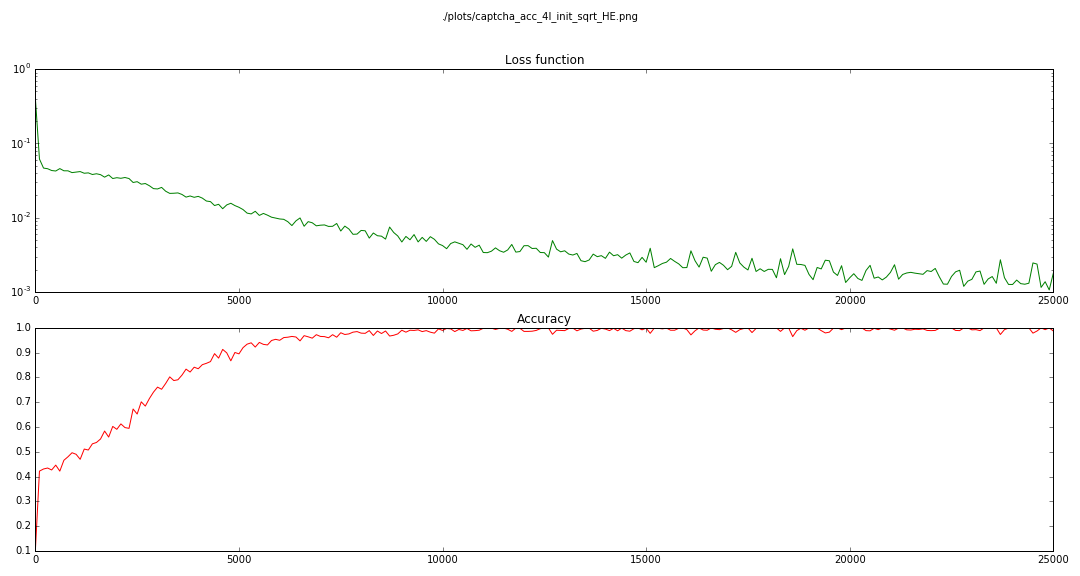
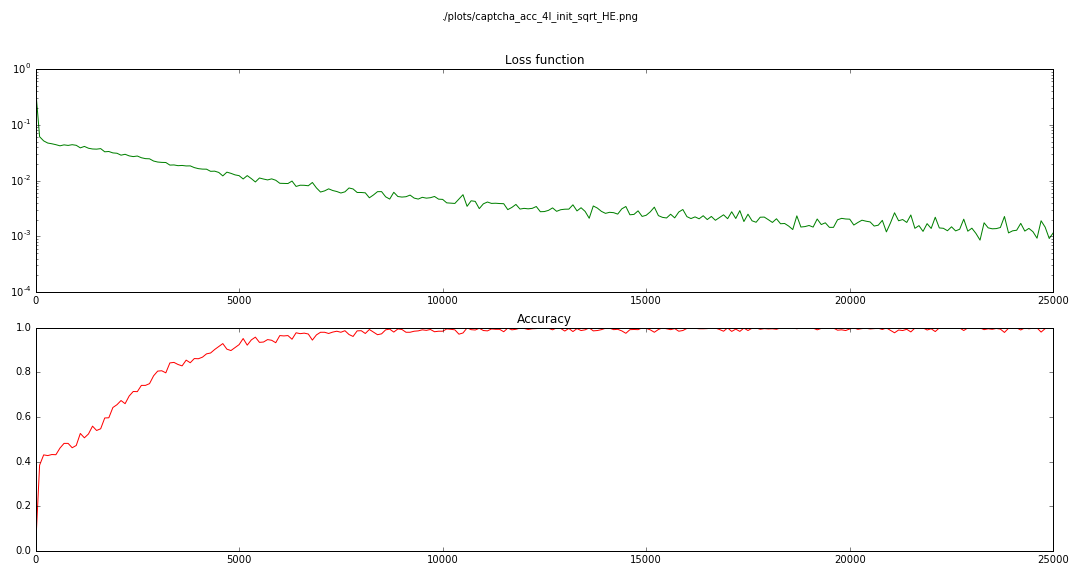
separation of test and trainning, add checking model accuracy on test set, add diagram for test accuracy

diff --git a/decaptcha_convnet.py b/decaptcha_convnet.py
@@ -9,10 +9,10 @@ import numpy as np
 import matplotlib.pyplot as plt
 import vec_mappings as vecmp
 
-img_folder = '/home/ksopyla/dev/captcha_data/data_07_2016/'
-#img_folder = '/shared/Captcha/Captcha/img/'
+#img_folder = '/home/ksopyla/dev/captcha_data/data_07_2016/'
+img_folder = './shared/Captcha/data_07_2016/img/'
 
-Xdata, Y, captcha_text = vecmp.load_dataset(folder=img_folder)
+X, Y, captcha_text = vecmp.load_dataset(folder=img_folder)
 
 ds_name = 'data_07_2016'
 
@@ -21,24 +21,25 @@ ds_name = 'data_07_2016'
 
 # standarization
 # compute mean across the rows, sum elements from each column and divide
-x_mean = Xdata.mean(axis=0)
-x_std = Xdata.std(axis=0)
-Xdata = (Xdata - x_mean) / (x_std + 0.00001)
+x_mean = X.mean(axis=0)
+x_std = X.std(axis=0)
+X = (X - x_mean) / (x_std + 0.00001)
 
-test_size = min(3000, Xdata.shape[0])
-random_idx = np.random.choice(Xdata.shape[0], test_size, replace=False)
+test_size = min(1000, X.shape[0])
+random_idx = np.random.choice(X.shape[0], test_size, replace=False)
 
-test_X = Xdata[random_idx, :]
+test_X = X[random_idx, :]
 test_Y = Y[random_idx, :]
 
-X = np.delete(Xdata, random_idx, axis=0)
+X = np.delete(X, random_idx, axis=0)
 Y = np.delete(Y, random_idx, axis=0)
+
 
 # Parameters
 learning_rate = 0.001
 batch_size = 64
-training_iters = 25000  # 128*5000
-display_step = 100
+training_iters = 25000  # 15000 is ok
+display_step = 1000
 
 # Network Parameters
 img_h = 64
@@ -215,7 +216,8 @@ accuracy = tf.reduce_mean(tf.cast(correct_pred, tf.float32))
 init = tf.global_variables_initializer()
 
 losses = list()
-accuracies = list()
+train_acc = list()
+test_acc = list()
 
 saver = tf.train.Saver()
 
@@ -237,37 +239,44 @@ with tf.Session() as sess:
         sess.run(optimizer, feed_dict={
                  x: batch_xs, y: batch_ys, keep_prob: dropout})
         end_op = dt.datetime.now()
-        # print("#{} opt step {} {} takes {}".format(step,start_op,end_op,
-        # end_op-start_op))
+        print("#{} opt step {} {} takes {}".format(step,start_op,end_op, end_op-start_op))
 
         if step % display_step == 0:
 
             #print("acc start {}".format(dt.datetime.now()))
-            # Calculate batch accuracy
-            acc = sess.run(accuracy, feed_dict={
-                           x: batch_xs, y: batch_ys, keep_prob: 1.})
-            accuracies.append(acc)
+            # Calculate accuracy on random training samples
+            batch_trainX, batch_trainY, idx = vecmp.random_batch(X, Y, 500)
+            
+            trn_acc = sess.run(accuracy, feed_dict={
+                           x: batch_trainX, y: batch_trainY, keep_prob: 1.})
+            train_acc.append(trn_acc)
 
             #print("loss start {}".format(dt.datetime.now()))
             # Calculate batch loss
             batch_loss = sess.run(
-                loss, feed_dict={x: batch_xs, y: batch_ys, keep_prob: 1.})
+                loss, feed_dict={x: batch_trainX, y: batch_trainY, keep_prob: 1.})
             losses.append(batch_loss)
+            
+            # Calculate accuracy on random test batch 
+            batch_testX, batch_testY, idx = vecmp.random_batch(test_X, test_Y, 500)
+            
+            tst_acc = sess.run(accuracy, feed_dict={
+                           x: batch_testX, y: batch_testY, keep_prob: 1.})
+            test_acc.append(tst_acc)
 
-            print("##Iter " + str(step) + ", Minibatch Loss= " +
-                  "{}".format(batch_loss) + ", Training Accuracy= " + "{}".format(acc))
+            print("##Iter {}, Minibatch Loss={}, Train Acc={} Test Acc={}".format(step, batch_loss,trn_acc,tst_acc))
 
             batch_idx = 0
             k = idx[batch_idx]
 
             pp = sess.run(pred, feed_dict={
-                          x: batch_xs, y: batch_ys, keep_prob: 1.})
-            p = tf.reshape(pp, [batch_size, 20, 63])
+                          x: batch_trainX, y: batch_trainY, keep_prob: 1.})
+            p = tf.reshape(pp, [-1, 20, 63])
             max_idx_p = tf.argmax(p, 2).eval()
 
             predicted_word = vecmp.map_vec_pos2words(max_idx_p[batch_idx, :])
 
-            l = tf.reshape(batch_ys, [batch_size, 20, 63])
+            l = tf.reshape(batch_trainY, [-1, 20, 63])
             # max idx acros the rows
             max_idx_l = tf.argmax(l, 2).eval()
             true_word = vecmp.map_vec_pos2words(max_idx_l[batch_idx, :])
@@ -280,7 +289,7 @@ with tf.Session() as sess:
 
         if step % 5000 == 0:
             print('saving...')
-            save_file = './models/model_init_{}.ckpt'.format(alpha)
+            save_file = './models/model_{}_init_{}.ckpt'.format(ds_name,alpha)
             save_path = saver.save(sess, save_file)
 
     end_epoch = dt.datetime.now()
@@ -320,18 +329,24 @@ iter_steps = [display_step *
 trainning_version = './plots/captcha_{}_acc_4l_init_{}.png'.format(ds_name,alpha)
 
 
-imh = plt.figure(1, figsize=(15, 8), dpi=160)
+imh = plt.figure(1, figsize=(15, 12), dpi=160)
 # imh.tight_layout()
 # imh.subplots_adjust(top=0.88)
 
 imh.suptitle(trainning_version)
-plt.subplot(211)
+plt.subplot(311)
 #plt.plot(iter_steps,losses, '-g', label='Loss')
 plt.semilogy(iter_steps, losses, '-g', label='Loss')
 plt.title('Loss function')
-plt.subplot(212)
-plt.plot(iter_steps, accuracies, '-r', label='Acc')
-plt.title('Accuracy')
+plt.subplot(312)
+plt.plot(iter_steps, train_acc, '-r', label='Trn Acc')
+plt.title('Train Accuracy')
+
+plt.subplot(313)
+plt.plot(iter_steps, test_acc, '-r', label='Tst Acc')
+plt.title('Test Accuracy')
+
+
 plt.tight_layout()
 plt.subplots_adjust(top=0.88)
 

diff --git a/vec_mappings.py b/vec_mappings.py
@@ -130,7 +130,7 @@ def map_char2pos(c):
     return k    
     
     
-def map_words2vec(words):
+def map_words2vec(word):
     """
     Maps word of max 20 characters to vector, each character could be
     '0...9A...Za...z_'
@@ -168,14 +168,14 @@ def map_words2vec(words):
     
     """
     
-    word_len = len(words)
+    word_len = len(word)
     
     vector = np.zeros(20*63)
     
-    if len(words)>20:
-        raise ValueError('word should have length less than 20')
+    if word_len>20:
+        raise ValueError('Word={} has length={}, words should have length less than 20'.format(word, word_len))
     
-    for i, c in enumerate(words):
+    for i, c in enumerate(word):
         idx=i*63+map_char2pos(c)
         
         vector[idx]=1
